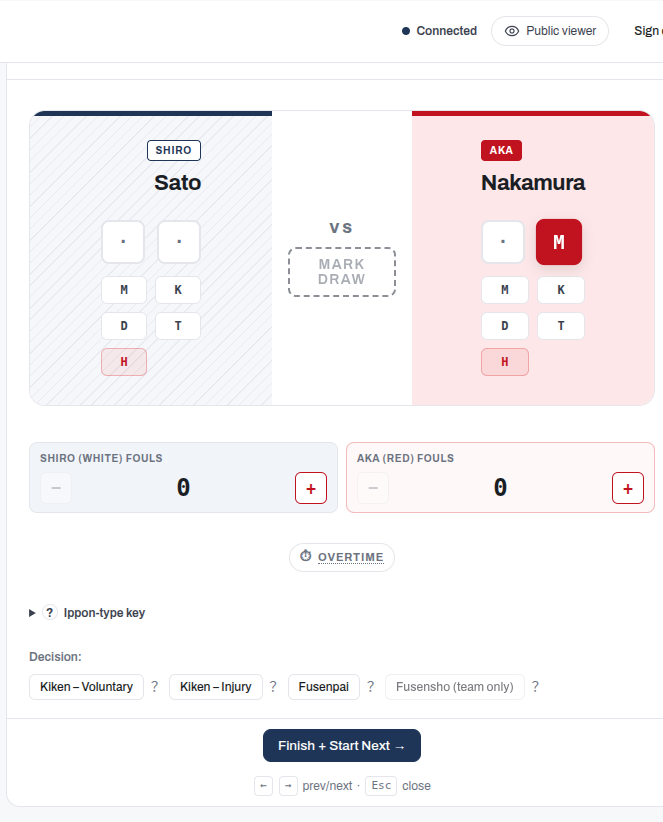
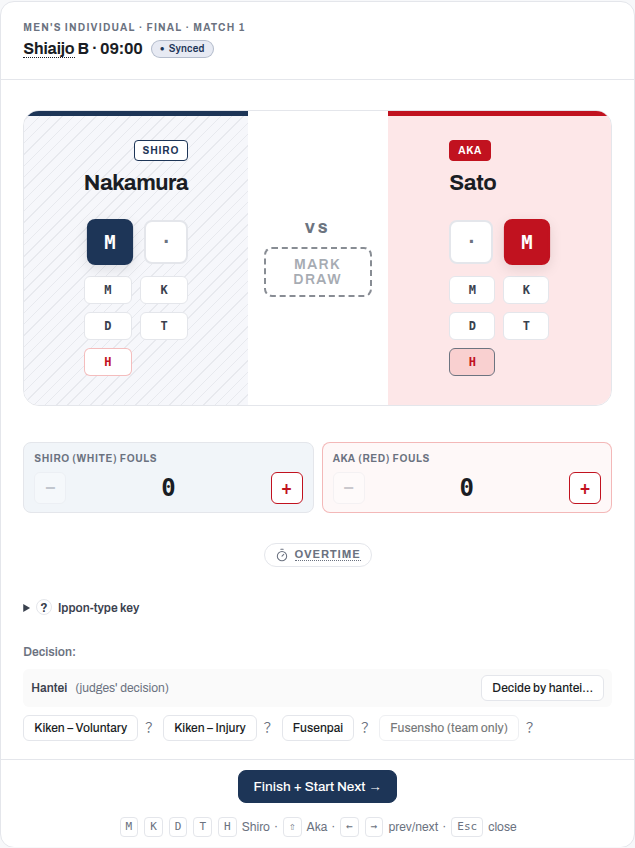
docs(mp-gmcg): close 2 round-14 review findings (shared screenshot + reopen refusal wording)
- Recapture docs/screenshots/mobile-score-editor.png from a TIED (1-1) scoreline.
  The PR's earlier recapture pictured a 1-0 state where "Decide by hantei" is
  legitimately absent (hantei renders only on a tied scoreline), which broke the
  caption on recording-decisions.md (an untouched page: "The score editor's
  decision controls: Decide by hantei, Kiken …") — a public page promising a
  control its picture no longer showed, uncatchable by docs/build since the
  referencing page isn't in the diff. The tied capture is a superset: all scoring
  controls PLUS all five decision controls, so it satisfies all three sharing
  pages' captions. Also fixes the mid-element right-edge crop (element capture,
  no page header).
- team-tournaments.md: the reopen conditional attached to the wrong verb ("rolls
  back … as long as that later match has not started" read as if reopen always
  works). A started/scored downstream refuses the reopen outright
  (ErrReopenDownstreamFought → 409); added "If that later match has already
  started or been scored, the app refuses the reopen outright; sort out that later
  match first."

docs/build --strict + check_links.py both green (35 pages, 1940 links resolve).

diff --git a/docs/user-guide/organisers/team-tournaments.md b/docs/user-guide/organisers/team-tournaments.md
@@ -92,7 +92,7 @@ When the last bout is tied, the editor offers every legitimate way forward and y
 
 There is no representative bout (daihyosen) in kachinuki: a tied pairing that must produce a result is settled by encho on that same bout, not by a separate rep bout.
 
-If you finish an encounter too early or record the wrong result, reopen it. Open the completed match and use **Reopen match**: a single tap returns the encounter to in progress with its bouts kept, so you can add or rescore bouts and end it again. Reopening discards a result that has already been recorded, so a reason is still kept with the result, but it is asked for when you end the match again rather than before you can get back in. That applies however you end it, whether you finish on a scored bout or record a withdrawal or a no-show. In a knockout, reopening also rolls back the next-round slot that this result had filled, as long as that later match has not started.
+If you finish an encounter too early or record the wrong result, reopen it. Open the completed match and use **Reopen match**: a single tap returns the encounter to in progress with its bouts kept, so you can add or rescore bouts and end it again. Reopening discards a result that has already been recorded, so a reason is still kept with the result, but it is asked for when you end the match again rather than before you can get back in. That applies however you end it, whether you finish on a scored bout or record a withdrawal or a no-show. In a knockout, reopening also rolls back the next-round slot that this result had filled, as long as that later match has not started. If that later match has already started or been scored, the app refuses the reopen outright; sort out that later match first.
 
 Reopening keeps every bout that was fought. The bout log is preserved in full, including who fought each bout, the points scored, and any overtime, so nothing you have already recorded is lost. What reopening clears is the finished-match verdict it is discarding: the winning team, the final score line, and any withdrawal or no-show recorded against the encounter.
 
